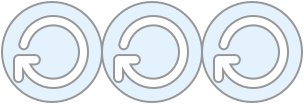
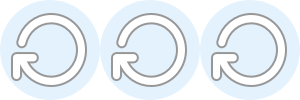
add fully working restart button

Changed region(s): [[0.0, 0.0, 1.0, 0.99], [0.69, 0.0, 0.93, 0.24]]

diff --git a/src/scenes/MainScene.js b/src/scenes/MainScene.js
@@ -10,7 +10,7 @@ const sceneConfig = {
     movingSpeed: 100
 };
 
-//TODO font
+//TODO: font
 const scoreConfig = {
     x: 139,
     y: 220,
@@ -22,7 +22,7 @@ const scoreConfig = {
     }
 };
 
-//TODO font
+//TODO: font
 const bestScoreConfig = {
     x: 446,
     y: 220,
@@ -53,17 +53,21 @@ export default class MainScene extends Phaser.Scene {
         this.backend = new BackEnd(this);
 
         this.scoreText = this.make.text(scoreConfig);
-        this.bestScoreText = this.make.text(bestScoreConfig);
-        
         this.events.on('onScoreChanged', this.scoreChanged, this);
+        this.bestScoreText = this.make.text(bestScoreConfig);
         this.events.on('onBestScoreChanged', this.bestScoreChanged, this);
         
         this.ratingButton = new Button('ratingButton', 810, 318, this);
         this.ratingButton.Up = () => {
             this.scene.launch("RatingTableScene", this); 
+            this.fieldManager.pause();
             this.backend.reciveRating();
-        }
-        //this.scene.stop();
+        };
+
+        this.restartButton = new Button('restartButton', 926, 318, this);
+        this.restartButton.Up = () => {
+            this.fieldManager.restart();
+        };
         
         this.fieldManager.start();
     }

diff --git a/src/scenes/RatingTableScene.js b/src/scenes/RatingTableScene.js
@@ -9,7 +9,8 @@ export default class RatingTableScene extends Phaser.Scene {
     }
 
     init (mainScene) {
-        mainScene.events.on('onRatingRecived', this._reciveTableHandler, this);
+        this.mainScene = mainScene;
+        this.mainScene.events.on('onRatingRecived', this._reciveTableHandler, this);
     }
 
     create() {
@@ -41,6 +42,7 @@ export default class RatingTableScene extends Phaser.Scene {
         this.closeButton = new Button('closeButton', 871, 255, this);
 
         this.closeButton.Up = () => {
+            this.mainScene.fieldManager.resume();
             this.scene.stop('RatingTableScene');
         } 
     }

diff --git a/src/BackEnd.js b/src/BackEnd.js
@@ -6,9 +6,6 @@ export default class BackEnd {
         this.xhrPUT = new XMLHttpRequest();
 
         this.xhrGET.onreadystatechange = () => {
-            if (this.xhrGET.readyState == 3) {
-                // TODO: loading
-            }
             if (this.xhrGET.readyState == 4) {
                 if (this.xhrGET.status == 200) {
                     //TODO
@@ -21,7 +18,6 @@ export default class BackEnd {
         }
 
         this.xhrPUT.onreadystatechange = () => {
-
             if (this.xhrPUT.readyState == 4) {
                 if (this.xhrPUT.status == 200) {
                     console.log("|__ADDED_TO_RATING_TABLE__|");

diff --git a/src/FieldManager.js b/src/FieldManager.js
@@ -57,7 +57,8 @@ export default class FieldManager {
                     this.array[i][j].num = 0;
                 }
             }
-            _redraw();
+            this._addNewTile();
+            this._redraw();
             this.score = 0;
             this.sendScore();
         }
@@ -151,14 +152,13 @@ export default class FieldManager {
 
 
     moveHandler(x, y) {
-        if (!this.canMove) {
+        if (!this.canMove)
             return;
-        }
+        
         this.canMove = false;
 
         if (!this.started || this.paused)
             return;
-
 
         this.animation.stop();
 

diff --git a/serv/server.js b/serv/server.js
@@ -39,7 +39,6 @@ app.get(index, (req, res) => {
  *  PUT REQUEST
 */
 app.put(index, (req, res) => {
-    //TODO: delete
     
     if (!checkInPUT(req)) {
         res.status(400).send("Score and name are required and should be really yours!");

diff --git a/src/KeyHandler.js b/src/KeyHandler.js
@@ -40,4 +40,4 @@ export default class KeyHandler {
 }
 
 //TODO: add swipes
-//TODO: на keyUp ускорять анимацию чтобы плавно было усе
+
